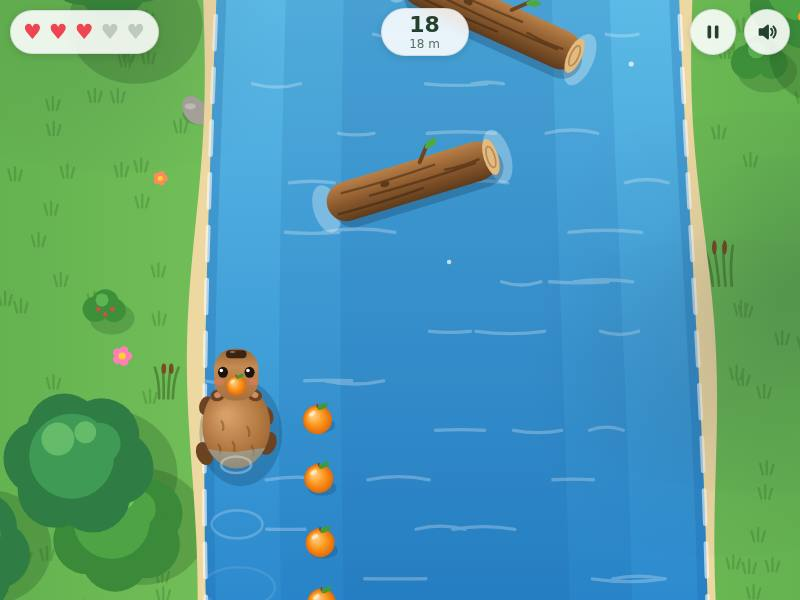
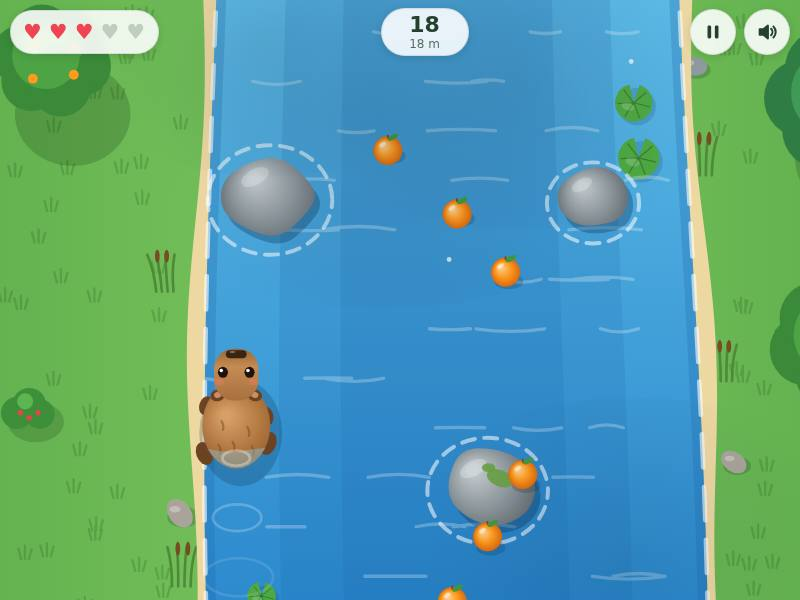
Remove the orange from the capybara's head; eating animation in the river game
- Capybara-Modenschau: no orange on the head any more
- Fluss-Lauf: no orange on the head; after collecting an orange the
  capybara chews it at the mouth with puffed cheeks and juice drops

Claude-Session: https://claude.ai/code/session_01M7wP2W5AL2J2jsTdGDXtSF

diff --git a/flussfahrt_2/index.html b/flussfahrt_2/index.html
@@ -465,7 +465,7 @@
       G.bestCombo = Math.max(G.bestCombo, G.combo);
       const mult = Math.min(5, 1 + Math.floor((G.combo - 1) / 2)) * (G.rapid && G.rapid.warn <= 0 ? 2 : 1);
       const pts = (o.gold ? 50 : 10) * mult;
-      G.bonus += pts; G.fruits++;
+      G.bonus += pts; G.fruits++; G.eat = 0.8; G.eatGold = !!o.gold;
       if (o.gold) { sfx.gold(); sparkle(px, py, 16, '#ffe066'); } else sfx.pick(G.combo);
       sparkle(px, py, 6, '#ffb347'); ring(px, py, 0.9 * U, 0.6, 0.5);
       floatT(px, py - 10, '+' + pts + (mult > 1 ? '  ×' + mult : ''), o.gold ? '#fff08a' : '#ffffff', o.gold ? 24 : 19);
@@ -674,7 +674,7 @@
     for (const f of G.floats) { f.life -= rdt; f.y -= 34 * rdt; }
     if (G.floats.length) G.floats = G.floats.filter(f => f.life > 0);
     if (G.banner) { G.banner.life -= rdt; G.banner.t += rdt; if (G.banner.life <= 0) G.banner = null; }
-    G.shake = Math.max(0, G.shake - rdt); G.flash = Math.max(0, G.flash - rdt);
+    G.shake = Math.max(0, G.shake - rdt); G.flash = Math.max(0, G.flash - rdt); G.eat = Math.max(0, (G.eat || 0) - rdt);
     for (const c of clouds) {
       c.y += (sc * 0.55) + 8 * rdt; c.x += 0.004 * rdt;
       if (c.y - c.r > H) { c.y = -c.r - rnd(0, 200); c.x = Math.random(); c.r = rnd(140, 260); }
@@ -733,8 +733,14 @@
     g.fillStyle = hg; rr(-0.3 * s, -0.9 * s, 0.6 * s, 0.7 * s, 0.27 * s); g.fill();
     g.fillStyle = '#3a2414'; rr(-0.14 * s, -0.88 * s, 0.28 * s, 0.11 * s, 0.055 * s); g.fill();
     g.fillStyle = 'rgba(255,255,255,.35)'; ell(-0.05 * s, -0.855 * s, 0.04 * s, 0.015 * s); g.fill();
+    // Kauen: nach dem Einsammeln einer Orange blähen sich die Backen im Takt
+    const eat = o.eat || 0, chew = eat > 0 ? Math.abs(Math.sin((1 - eat) * Math.PI * 5)) : 0;
     g.fillStyle = 'rgba(255,120,110,.38)';
-    for (const sd of [-1, 1]) { ell(sd * 0.23 * s, -0.45 * s, 0.06 * s, 0.045 * s); g.fill(); }
+    for (const sd of [-1, 1]) { ell(sd * (0.23 + chew * 0.03) * s, -0.45 * s, (0.06 + chew * 0.03) * s, (0.045 + chew * 0.02) * s); g.fill(); }
+    if (eat > 0) {
+      g.fillStyle = 'rgba(176,118,63,.55)';
+      for (const sd of [-1, 1]) { ell(sd * 0.29 * s, -0.62 * s, chew * 0.06 * s, chew * 0.09 * s); g.fill(); }
+    }
     const ey = -0.58 * s, eyes = o.eyes || 'open';
     g.fillStyle = '#1d130c'; g.strokeStyle = '#1d130c'; g.lineWidth = Math.max(1.2, 0.035 * s);
     for (const sd of [-1, 1]) {
@@ -749,7 +755,14 @@
         g.beginPath(); g.arc(ex, ey + 0.02 * s, 0.05 * s, Math.PI * 1.1, Math.PI * 1.9); g.stroke();
       } else { g.beginPath(); g.moveTo(ex - 0.05 * s, ey); g.lineTo(ex + 0.05 * s, ey); g.stroke(); }
     }
-    if (o.orange !== false) drawOrange(0, -0.4 * s, s * 0.62, false);
+    if (eat > 0) {
+      // Orangenstück am Maul, das beim Kauen kleiner wird, dazu ein paar Saftspritzer
+      drawOrange(0, -0.98 * s + chew * 0.03 * s, s * 0.85 * (0.3 + 0.7 * eat), !!o.eatGold);
+      if (chew > 0.7) {
+        g.fillStyle = o.eatGold ? 'rgba(255,220,80,.9)' : 'rgba(255,160,40,.9)';
+        for (const sd of [-1, 1]) { circ(sd * 0.16 * s, -1.0 * s - chew * 0.04 * s, 0.025 * s); g.fill(); }
+      }
+    }
     g.restore();
   }
   function drawOrange(x, y, s, gold) {
@@ -1139,7 +1152,7 @@
     else if (G.inv > 0) { if (Math.sin(T * 26) > 0.2) alpha = 0.35; eyes = G.inv > DIFFS[DIFF].inv - 0.5 ? 'hurt' : 'open'; }
     else if (G.comboT > 1.9 && G.combo > 0) eyes = 'happy';
     else if (T % 3.7 < 0.13) eyes = 'blink';
-    drawCapy(x, y, U * 1.12, { rot, paddle: P.paddle, eyes, alpha, scale });
+    drawCapy(x, y, U * 1.12, { rot, paddle: P.paddle, eyes, alpha, scale, eat: (G.eat || 0) / 0.8, eatGold: G.eatGold });
     if (G.shield > 0) {
       g.strokeStyle = 'rgba(190,255,170,' + (0.45 + 0.2 * Math.sin(T * 5)) + ')'; g.lineWidth = Math.max(2, 0.06 * U);
       circ(x, y - 0.1 * U, 0.95 * U); g.stroke();

diff --git a/anziehen_2/index.html b/anziehen_2/index.html
@@ -396,15 +396,13 @@
     const g = it.gfx && it.gfx[part];
     return g ? '<g' + (cls ? ' class="' + cls + '"' : '') + ' data-id="' + esc(it.id) + '">' + g + '</g>' : '';
   }
-  // Capybara mit Kleidung (240x300). Ebenen: back-Teile, Capybara, Teile (LAYER), Orange, Arme, top-Teile
+  // Capybara mit Kleidung (240x300). Ebenen: back-Teile, Capybara, Teile (LAYER), Arme, top-Teile
   function figureSvg(worn, animId) {
     const cls = i => i.id === animId ? 'pop' : '';
     const list = LAYER.map(s => worn[s] && IT[worn[s]]).filter(Boolean);
-    const hat = worn.kopf && IT[worn.kopf];
     let s = list.filter(i => i.back).map(i => partSvg(i, 'svg', cls(i))).join('') + ART.capy;
     LAYER.forEach(sl => {
       list.forEach(i => { if (i.slot === sl && !i.back) s += partSvg(i, 'svg', cls(i)); });
-      if (sl === 'kopf' && (!hat || (hat.gfx && hat.gfx.keepOrange))) s += ART.orange;
     });
     return s + ART.arms + list.map(i => partSvg(i, 'top', cls(i))).join('');
   }
